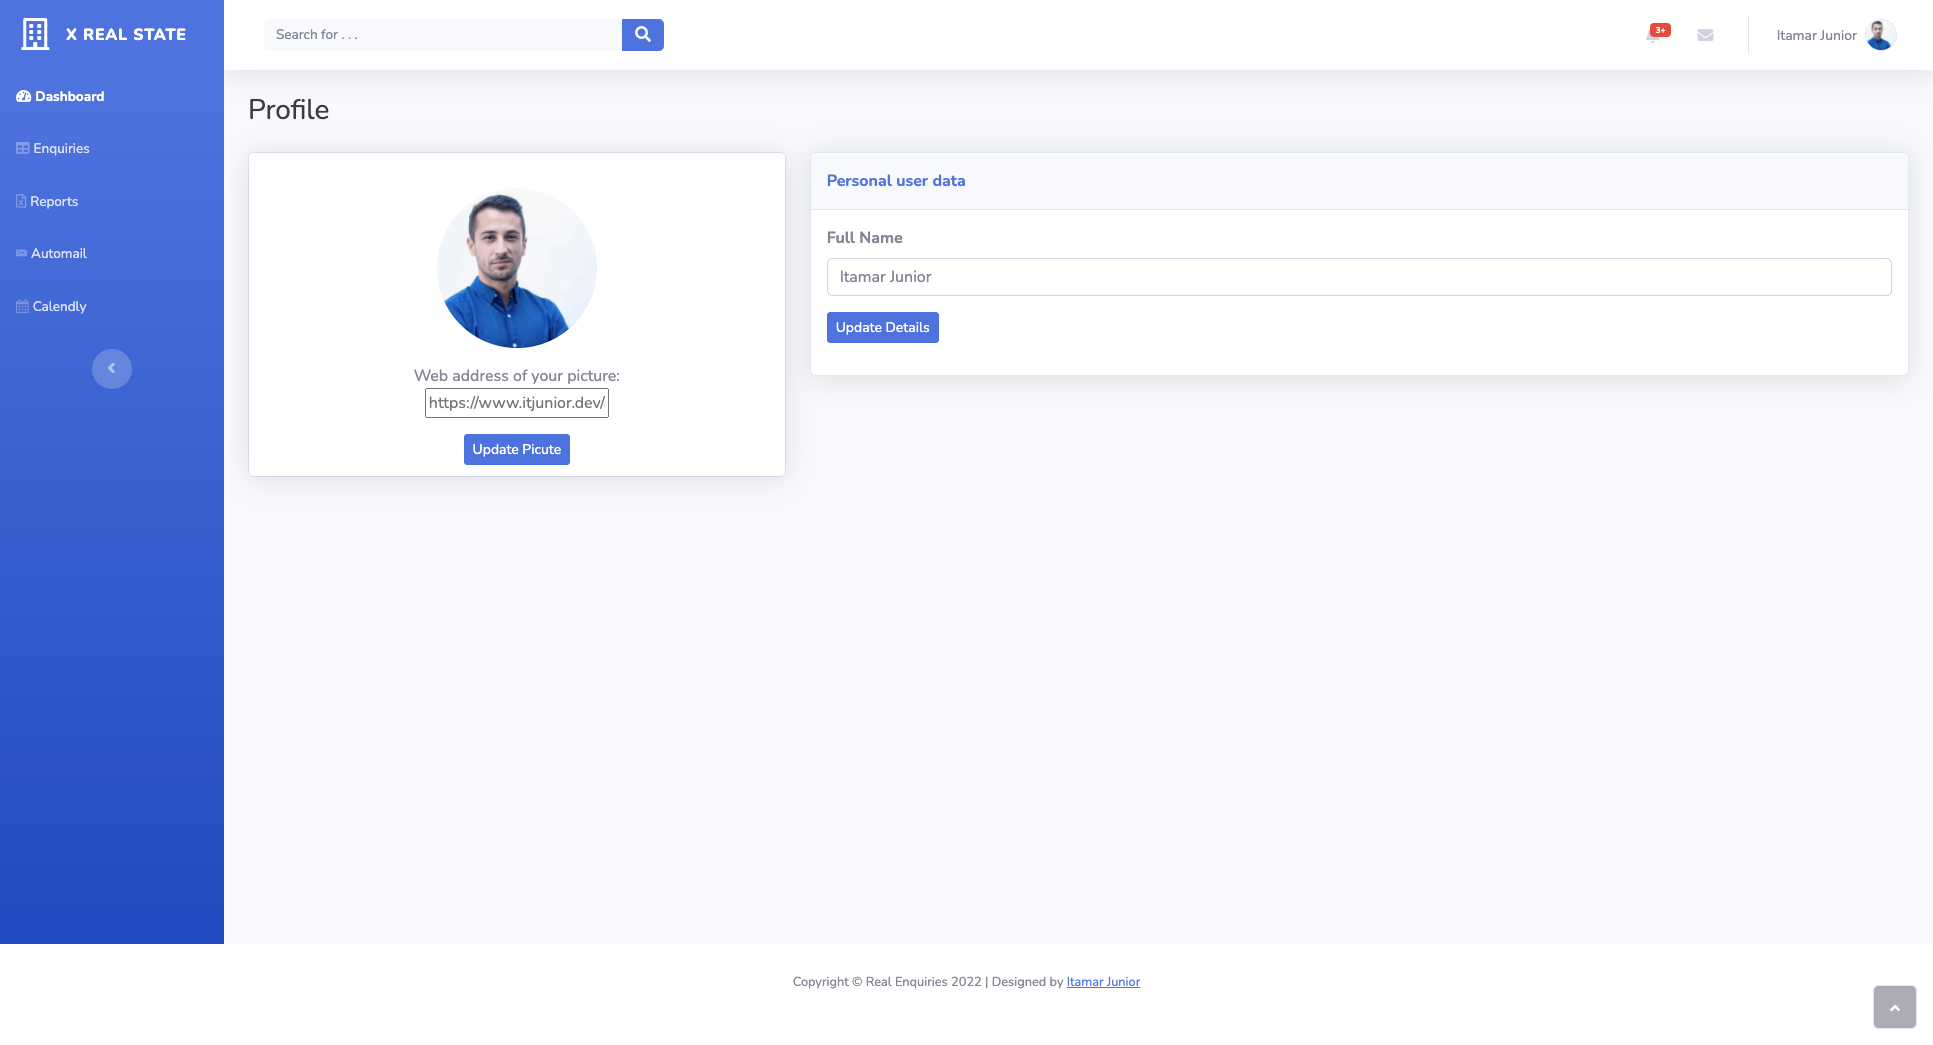
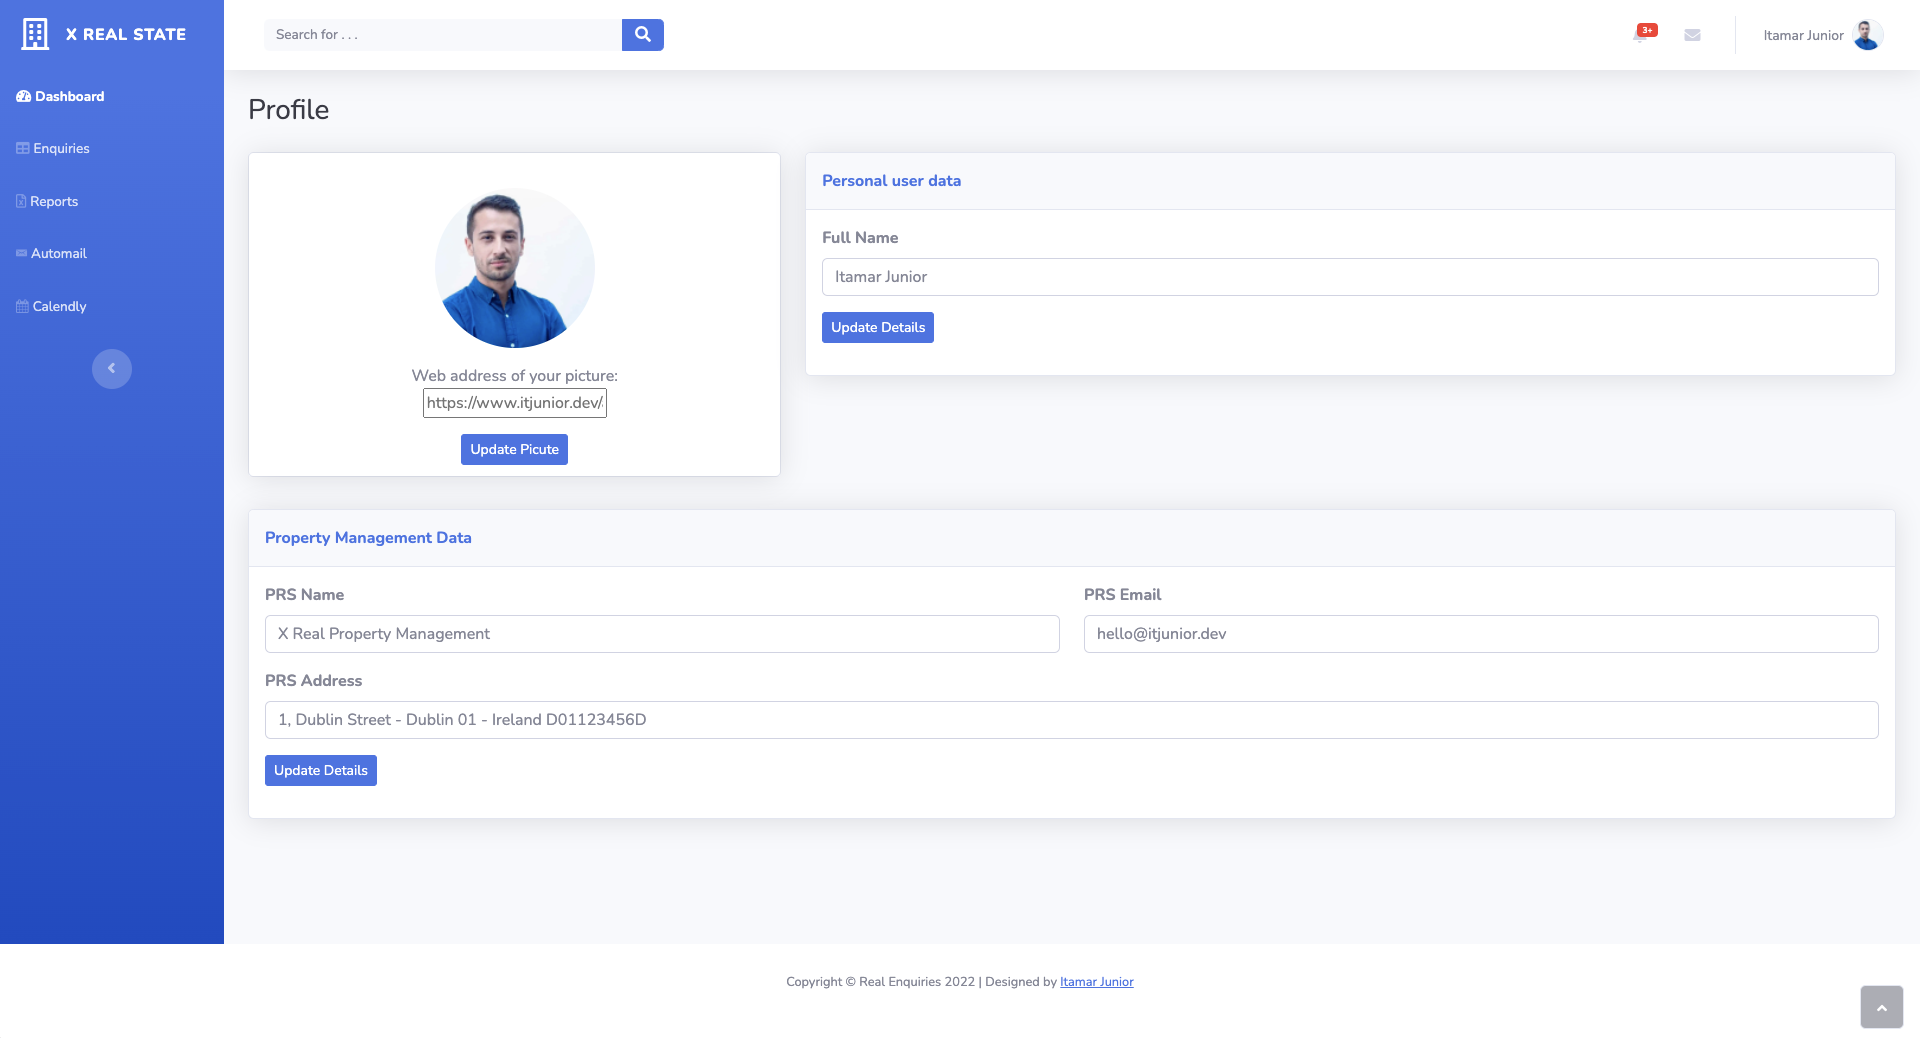
add email settings to the user and system.

diff --git a/features/system_settings.php b/features/system_settings.php
@@ -1,57 +1,74 @@
 <?php
 require "features/functions_automail.php";
+require "features/functions_property.php";
 
 
 $property_code = $_SESSION["property_code"];
 
 //Set the checked box from the DB
-if (getAutomail($property_code, 'automail_new') == 1) {
+if (getPropertyData($property_code, 'automail_new') == 1) {
     $automailNew = 'checked=""';
 }
-if (getAutomail($property_code, 'automail_approved') == 1) {
+if (getPropertyData($property_code, 'automail_approved') == 1) {
     $automailApproved = 'checked=""';
 }
-if (getAutomail($property_code, 'automail_denied') == 1) {
+if (getPropertyData($property_code, 'automail_denied') == 1) {
     $automailDenied = 'checked=""';
 }
 //Loading time and calendly from the DB
-$getting_email_time = getAutomail($property_code, 'getting_email_time');
-$getting_calendly = propertyGetData($property_code, 'property_calendly');
+$getting_email_time = getPropertyData($property_code, 'getting_email_time');
+$getting_calendly = getPropertyData($property_code, 'property_calendly');
 
 //Check if the users clicked on any option by checking the hidden form if get by POST
 if (isset($_POST['save'])) {
     //If so check the status of each checkbox
     if (isset($_POST['automailNew'])) {
-        setAutomail($property_code, 'automail_new', 1);
+        setPropertyData($property_code, 'automail_new', 1);
         $automailNew = 'checked=""';
     }
     if (!isset($_POST['automailNew'])) {
-        setAutomail($property_code, 'automail_new', 0);
+        setPropertyData($property_code, 'automail_new', 0);
         $automailNew = '';
     }
     if ($_POST['automailApproved']) {
         $automailApproved = 'checked=""';
-        setAutomail($property_code, 'automail_approved', 1);
+        setPropertyData($property_code, 'automail_approved', 1);
     }
     if (!isset($_POST['automailApproved'])) {
         $automailApproved = '';
-        setAutomail($property_code, 'automail_approved', 0);
+        setPropertyData($property_code, 'automail_approved', 0);
     }
     if (isset($_POST['automailDenied'])) {
         $automailDenied = 'checked=""';
-        setAutomail($property_code, 'automail_denied', 1);
+        setPropertyData($property_code, 'automail_denied', 1);
     }
     if (!isset($_POST['automailDenied'])) {
         $automailDenied = '';
-        setAutomail($property_code, 'automail_denied', 0);
+        setPropertyData($property_code, 'automail_denied', 0);
     }
     if (isset($_POST['gettin_email_time'])) {
         $getting_email_time = $_POST['gettin_email_time'];
-        setAutomail($property_code, 'getting_email_time', $getting_email_time);
+        setPropertyData($property_code, 'getting_email_time', $getting_email_time);
     }
     if (isset($_POST['calendly'])) {
-        $getting_calendly = $_POST['calendly'];
-        propertySetData($property_code, 'property_calendly', $getting_calendly);
+        if ($_POST['calendly'] != getPropertyData($property_code, 'property_calendly')) {
+            setPropertyData($property_code, 'property_calendly', $_POST['calendly']);
+        }
+    }
+    if (isset($_POST['PropertyHostName'])) {
+        if ($_POST['PropertyHostName'] != getPropertyData($property_code, 'property_email_hostname')) {
+            setPropertyData($property_code, 'property_email_hostname', $_POST['PropertyHostName']);
+        }
+    }
+    if (isset($_POST['PropertyEmail'])) {
+        if ($_POST['PropertyEmail'] != getPropertyData($property_code, 'property_email_username')) {
+            setPropertyData($property_code, 'property_email_username', $_POST['PropertyEmail']);
+        }
+    }
+    if (isset($_POST['PropertyEmailPassword'])) {
+        if ($_POST['PropertyEmailPassword'] != getPropertyData($property_code, 'property_email_password')) {
+            setPropertyData($property_code, 'property_email_password', $_POST['PropertyEmailPassword']);
+        }
     }
 }
 
@@ -145,6 +162,29 @@ if (isset($_POST['save'])) {
                                     </div>
                                 </div>
                             </div>
+                            <hr class="my-4" />
+                            <div class="row">
+                                <div class="col">
+                                    <div class="mb-3"><label class="form-label"><strong>Property Host Name</strong></label>
+                                        <input class="form-control" type="text" value="<?php echo getPropertyData($property_code, 'property_email_hostname');
+                                                                                        ?>" name="PropertyHostName">
+                                    </div>
+                                </div>
+                                <div class="col">
+                                    <div class="mb-3"><label class="form-label"><strong>Property Email</strong></label>
+                                        <input class="form-control" type="text" value="<?php echo getPropertyData($property_code, 'property_email_username');
+                                                                                        ?>" name="PropertyEmail">
+                                    </div>
+                                </div>
+                                <div class="col">
+                                    <div class="mb-3"><label class="form-label"><strong>Property Email Password</strong></label>
+                                        <input class="form-control" type="password" value="<?php echo getPropertyData($property_code, 'property_email_password');
+                                                                                        ?>" name="PropertyEmailPassword">
+                                    </div>
+                                </div>
+                            </div>
+                            <div class="row">
+                            </div>
                         </div>
                     </div>
 
@@ -163,7 +203,7 @@ if (isset($_POST['save'])) {
                             </div>
                             <div class="row align-items-center">
                                 <div class="col">
-                                    <input class="form-control" type="text" name=calendly value="<?php echo $getting_calendly; ?>">
+                                    <input class="form-control" type="text" name=calendly value="<?php echo getPropertyData($property_code, 'property_calendly'); ?>">
                                 </div>
                             </div>
 
@@ -188,7 +228,7 @@ if (isset($_POST['save'])) {
         if (flag) $('form').submit();
     });
 
-    $("form select").on('change', function() {
+    $("form").on('change', function() {
         $("form").trigger('submit');
     });
 </script>

diff --git a/features/profile.php b/features/profile.php
@@ -8,14 +8,10 @@ if (isset($_GET['pic_address'])) {
     echo '<h1><span style="color: #339966;"><center>Your name was updated with success!</center></span></h1>';
 } if (isset($_GET['namePRS'])) {
     setPRSData($_SESSION["agent_prs_code"],'prs_name',$_GET['namePRS']);
-    echo '<center><div class="alert alert-success" role="alert">
-    The PRS name was updated with success!
-  </div></center>';
 } if (isset($_GET['emailPRS'])) {
     setPRSData($_SESSION["agent_prs_code"],'prs_email',$_GET['emailPRS']);
-    echo '<center><div class="alert alert-success" role="alert">
-    The PRS email was updated with success!
-  </div></center>';
+} if (isset($_GET['addressPRS'])) {
+    setPRSData($_SESSION["agent_prs_code"],'prs_full_address',$_GET['addressPRS']);
 } 
 
 
@@ -85,11 +81,16 @@ if (isset($_GET['pic_address'])) {
                                             <input class="form-control" type="text" value="<?php echo getPRSData($_SESSION["agent_prs_code"],'prs_name'); ?>" name="namePRS">
                                         </div>
                                     </div>
-                                </div>
-                                <div class="row">
                                     <div class="col">
                                         <div class="mb-3"><label class="form-label"><strong>PRS Email</strong></label>
                                             <input class="form-control" type="text" value="<?php echo getPRSData($_SESSION["agent_prs_code"],'prs_email'); ?>" name="emailPRS">
+                                        </div>
+                                    </div>
+                                </div>
+                                <div class="row">
+                                <div class="col">
+                                        <div class="mb-3"><label class="form-label"><strong>PRS Address</strong></label>
+                                            <input class="form-control" type="text" value="<?php echo getPRSData($_SESSION["agent_prs_code"],'prs_full_address'); ?>" name="addressPRS">
                                         </div>
                                     </div>
                                 </div>

diff --git a/features/functions_property.php b/features/functions_property.php
@@ -1,9 +1,9 @@
 <?php
 
-function getPRSData($PRSCode, $rowName)
+function getPropertyData($property_code, $rowName)
 {
     require "config/config.php";
-    $query = "SELECT * FROM prs WHERE (prs_code = '$PRSCode')";
+    $query = "SELECT * FROM property WHERE (property_code = '$property_code')";
     $result = mysqli_query($link, $query);
     if (mysqli_query($link, $query)) {
         while ($row = mysqli_fetch_array($result)) {
@@ -15,15 +15,14 @@ function getPRSData($PRSCode, $rowName)
     mysqli_close($link);
 }
 
-function setPRSData($PRSCode, $rowName, $newData)
+function setPropertyData($property_code, $rowName, $newData)
 {
     require "config/config.php";
-    $query = "UPDATE prs SET $rowName = '$newData' WHERE (prs_code = '$PRSCode')";
+    $query = "UPDATE property SET $rowName = '$newData' WHERE (property_code = '$property_code')";
     if (mysqli_query($link, $query)) {
-        echo '<center><div class="alert alert-success" role="alert">'. $newData .' updated with success!</div></center>';
+        echo '<center><div class="alert alert-success" role="alert">Data updated with success!</div></center>';
     } else {
         echo '<center><div class="alert alert-danger" role="alert">Error: ' . mysqli_error($link) . '</div></center>';
     }
-
     mysqli_close($link);
 }

diff --git a/config/config.php b/config/config.php
@@ -5,18 +5,16 @@ define('DB_SERVER', $HOST);
 define('DB_USERNAME', $USERNAME);
 define('DB_PASSWORD', $DBPASSWORD);
 define('DB_NAME', $DBNAME);
- 
+
 /* Attempt to connect to MySQL database */
 $link = mysqli_connect(DB_SERVER, DB_USERNAME, DB_PASSWORD, DB_NAME);
- 
+
 // Check connection
-if($link === false){
+if ($link === false) {
     die("ERROR: Could not connect. " . mysqli_connect_error());
 }
 
-    // Check connection 2
-    if ($link->connect_error) {
-        die("Connection failed: " . $link->connect_error);
-    }
-
-?>
+// Check connection 2
+if ($link->connect_error) {
+    die("Connection failed: " . $link->connect_error);
+}
